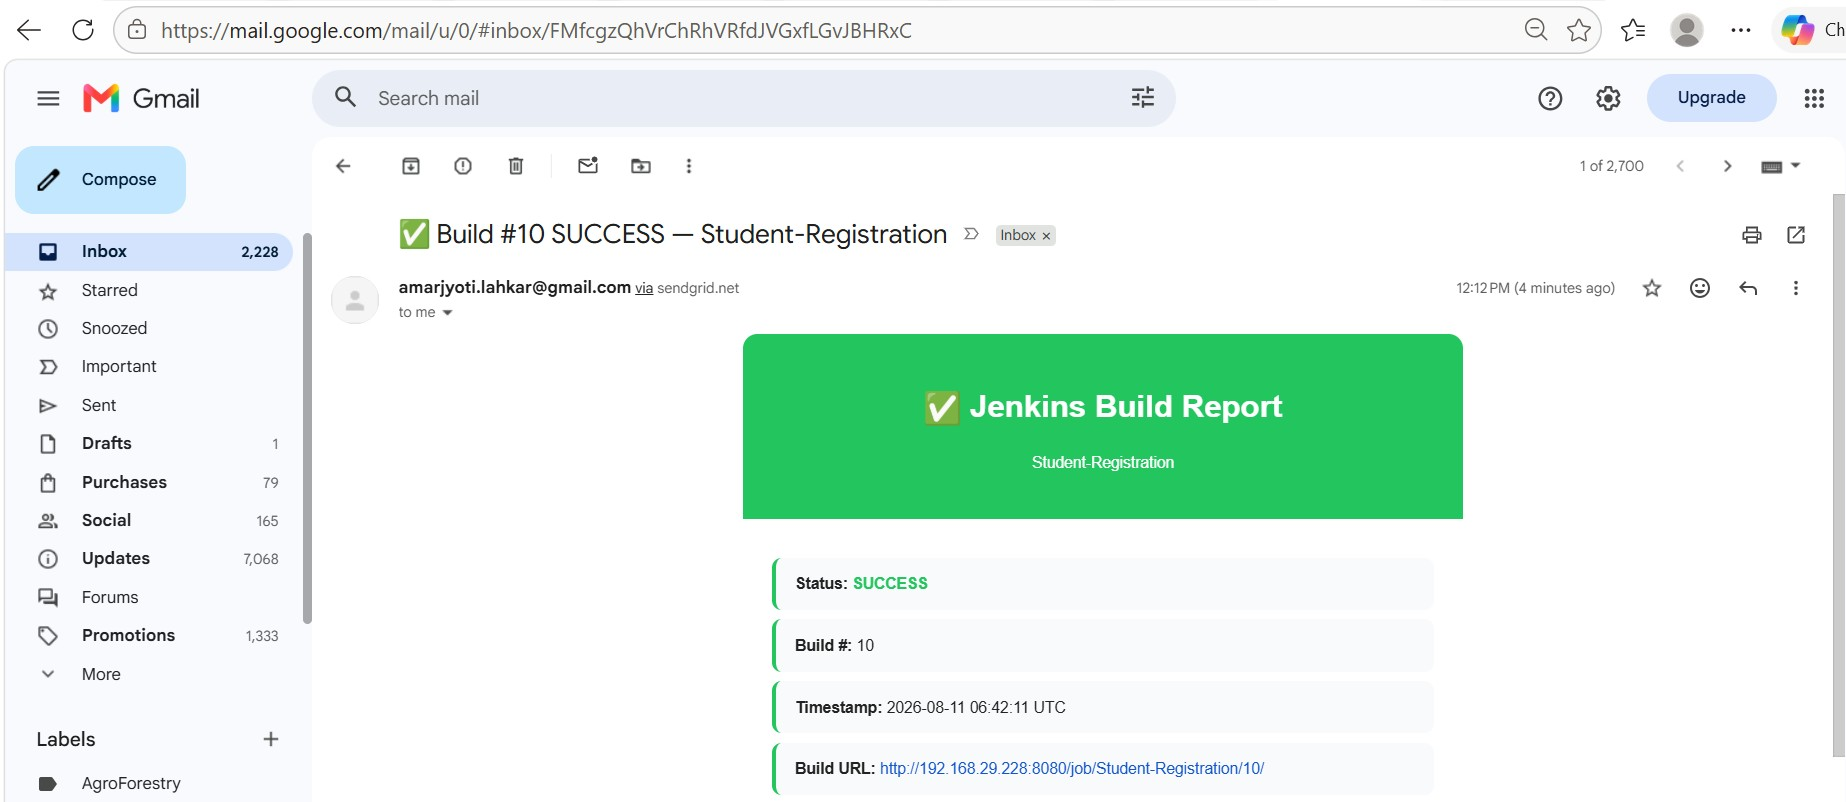
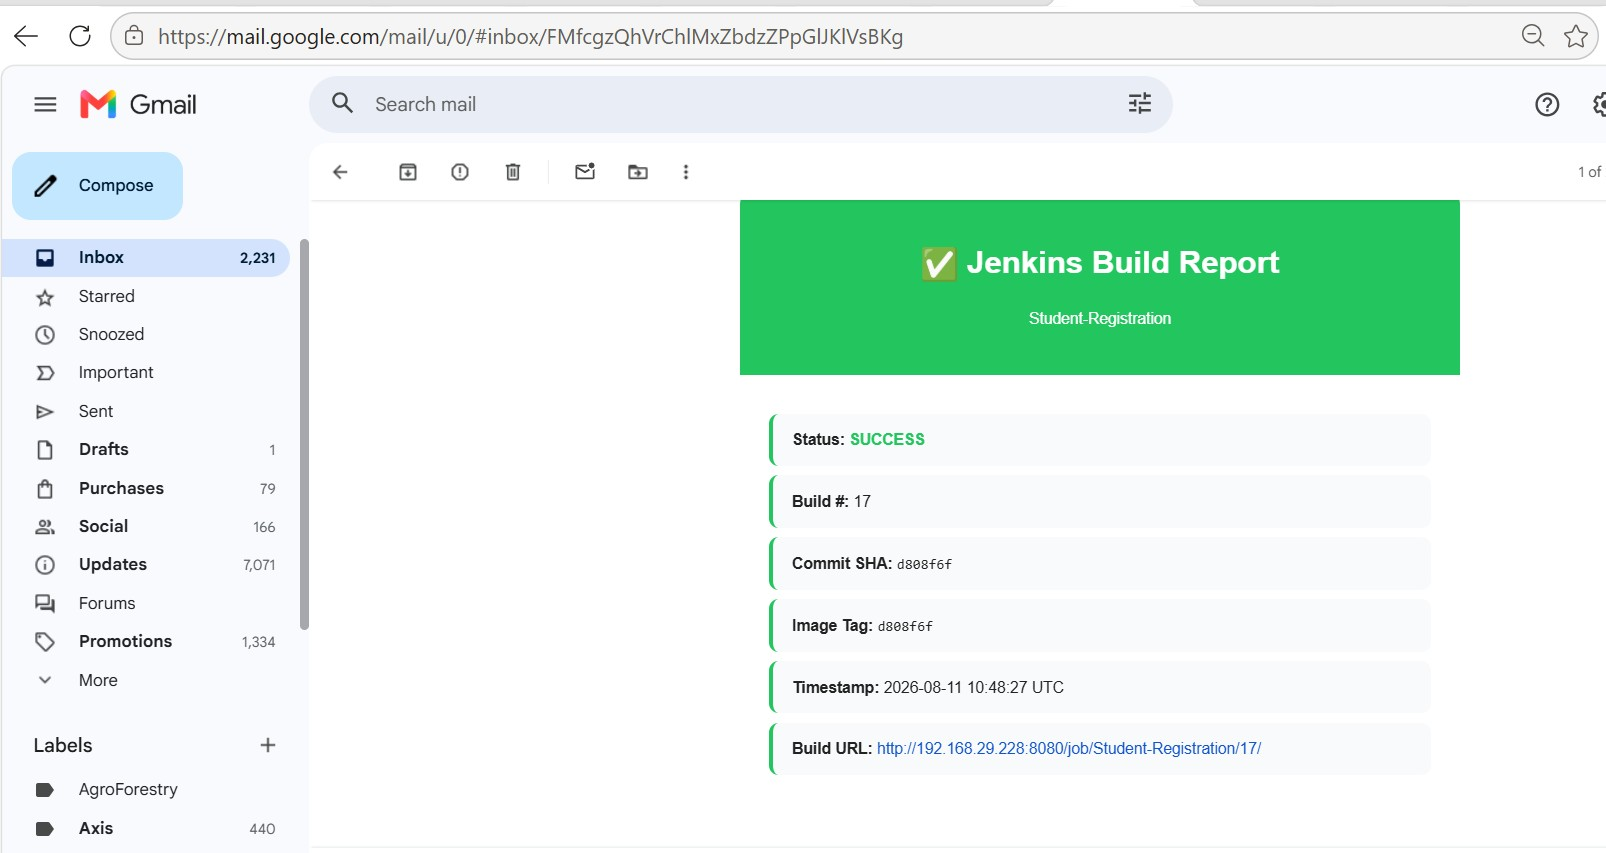
Build-Success-Report-Email

diff --git a/README.md b/README.md
@@ -172,7 +172,7 @@ docker run -d \
 curl http://localhost:5000/health or
 ```
 
-![App health status(local)](screentshots/Manual_run_app_health_local.jpg)
+![App health status](screentshots/Manual_run_app_health_local.jpg)
 
 ---
 
